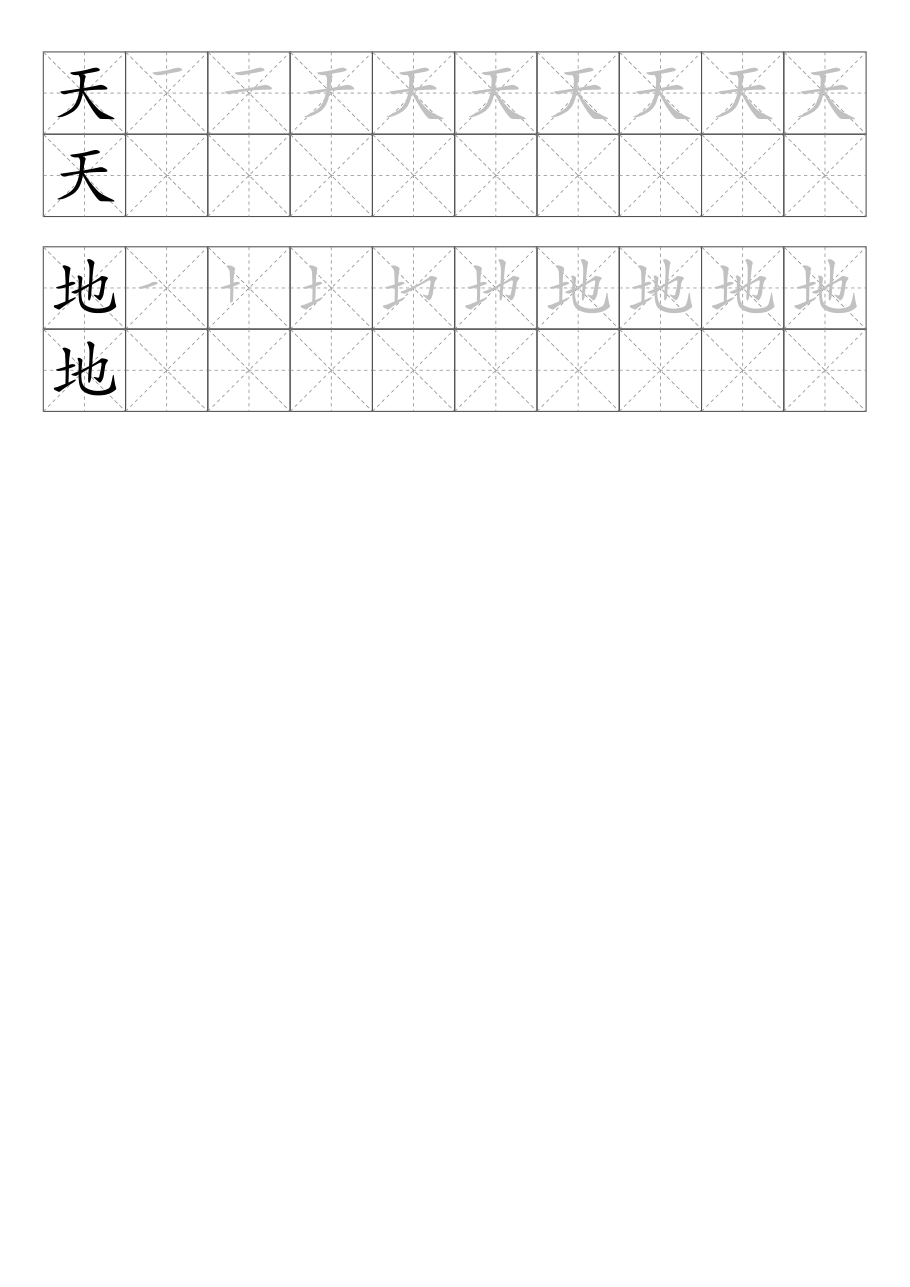
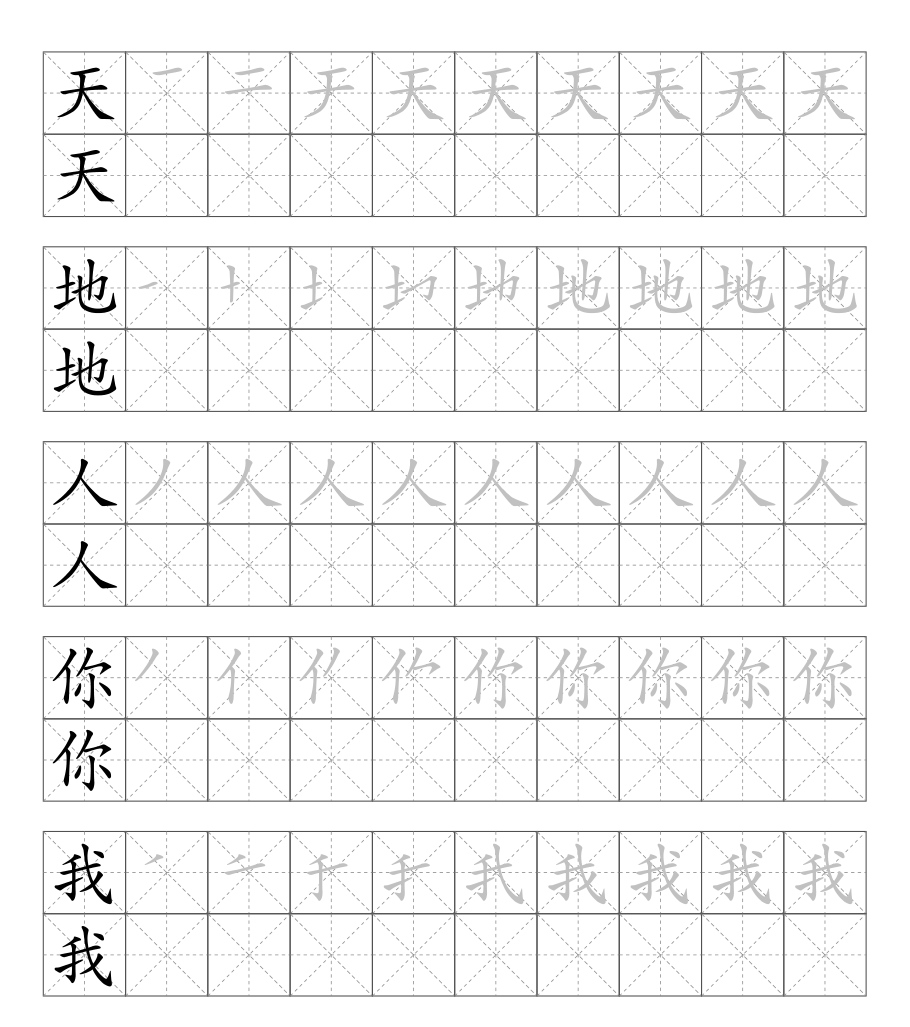
优化预览图生成，裁剪下方空白区域以保留内容

diff --git a/src/make_zitie.py b/src/make_zitie.py
@@ -199,7 +199,11 @@ def build(chars, cols, per_page, size_mm, margin_mm, inner_gap_mm, group_gap_mm,
 
     if preview:
         d = fitz.open(out)
-        d[0].get_pixmap(dpi=110).save(preview)
+        page = d[0]
+        # 预览图裁掉下方空白，只留内容加一点边
+        bottom = max((dr["rect"].y1 for dr in page.get_drawings()), default=page.rect.height)
+        clip = fitz.Rect(0, 0, page.rect.width, min(page.rect.height, bottom + 20))
+        page.get_pixmap(dpi=110, clip=clip).save(preview)
         d.close()
 
 
